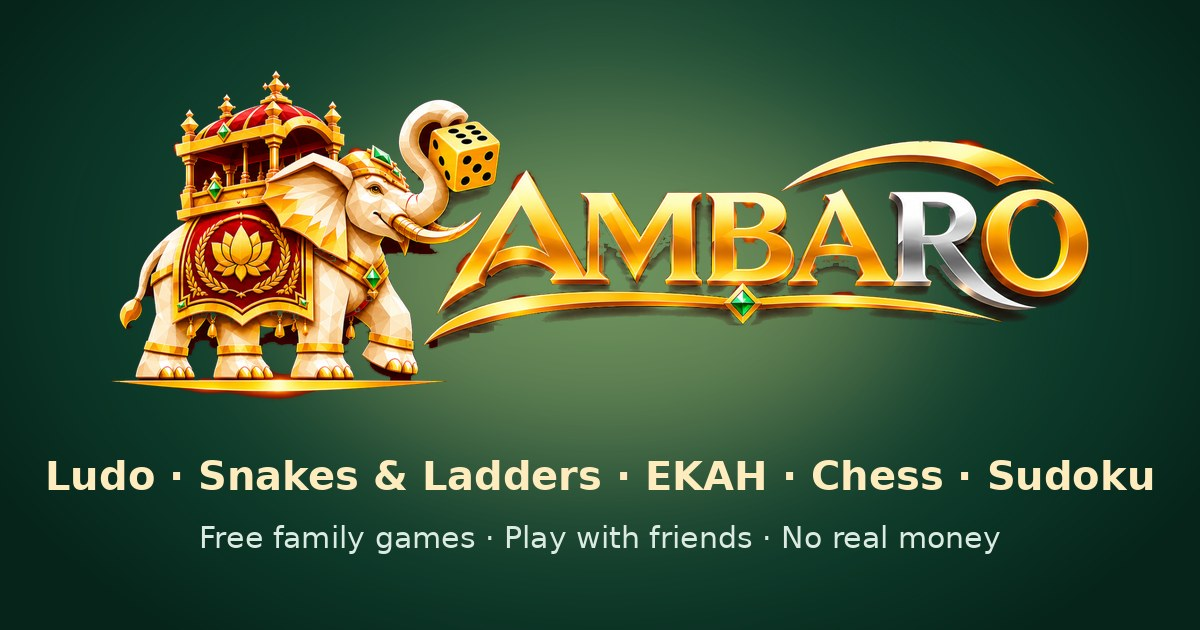
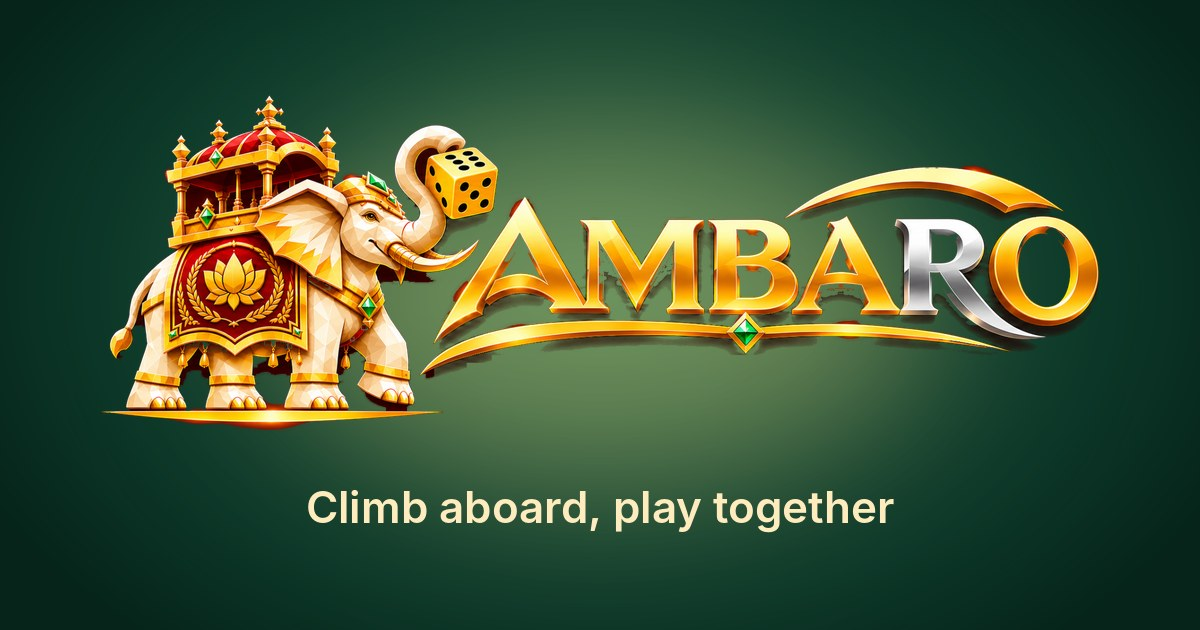
Link preview and page title: plain Ambaro with "Climb aboard, play together"
No game names or other lines on the WhatsApp card; page title, descriptions and the home-screen manifest
use the same words.

Claude-Session: https://claude.ai/code/session_015vFbHLgKJ1NB6KZV8yUJTQ

Changed region(s): [[0.0925, 0.1206, 0.925, 0.6937], [0.0308, 0.7238, 0.9867, 0.8746]]

diff --git a/web/index.html b/web/index.html
@@ -6,17 +6,17 @@
     <script src="/app-mode.js"></script>
     <script src="/rc-coach.js" defer></script>
     <meta name="theme-color" content="#0B3B2D" />
-    <meta name="description" content="Ambaro: free family games — Ludo, Snakes &amp; Ladders, EKAH, Chess, Sudoku and more. Play with friends. No real money." />
+    <meta name="description" content="Ambaro. Climb aboard, play together." />
     <meta property="og:type" content="website">
     <meta property="og:site_name" content="Ambaro">
-    <meta property="og:title" content="Ambaro — free family games">
-    <meta property="og:description" content="Play Ludo, Snakes & Ladders, EKAH, Chess and Sudoku with family and friends. Free, no real money.">
+    <meta property="og:title" content="Ambaro">
+    <meta property="og:description" content="Climb aboard, play together.">
     <meta property="og:image" content="https://test.royalclubgames.com/brand/og-image.jpg">
     <meta property="og:image:width" content="1200">
     <meta property="og:image:height" content="630">
     <meta name="twitter:card" content="summary_large_image">
     <link rel="manifest" href="/manifest.webmanifest" />
-    <title>Ambaro — free family games</title>
+    <title>Ambaro</title>
     <link rel="icon" type="image/png" sizes="32x32" href="/brand/favicon-32.png" />
     <link rel="icon" type="image/png" sizes="64x64" href="/brand/favicon.png" />
     <link rel="apple-touch-icon" href="/brand/apple-touch-icon.png" />

diff --git a/web/public/ekah/index.html b/web/public/ekah/index.html
@@ -7,8 +7,8 @@
     <script>try{var t=localStorage.getItem("ekahTable");if(t==="kesari"||t==="emerald")document.documentElement.dataset.table=t}catch(e){}</script>
 <meta property="og:type" content="website">
 <meta property="og:site_name" content="Ambaro">
-<meta property="og:title" content="Play EKAH on Ambaro">
-<meta property="og:description" content="Join my EKAH game: the Indian card game of Agni, Jal, Prithvi and Vayu. Free, no real money.">
+<meta property="og:title" content="Ambaro">
+<meta property="og:description" content="Climb aboard, play together.">
 <meta property="og:image" content="https://test.royalclubgames.com/brand/og-image.jpg">
 <meta property="og:image:width" content="1200">
 <meta property="og:image:height" content="630">

diff --git a/web/public/sudoku/index.html b/web/public/sudoku/index.html
@@ -6,8 +6,8 @@
     <script src="/app-mode.js"></script>
 <meta property="og:type" content="website">
 <meta property="og:site_name" content="Ambaro">
-<meta property="og:title" content="Sudoku on Ambaro">
-<meta property="og:description" content="Race me at Sudoku on Ambaro. A new daily puzzle every day.">
+<meta property="og:title" content="Ambaro">
+<meta property="og:description" content="Climb aboard, play together.">
 <meta property="og:image" content="https://test.royalclubgames.com/brand/og-image.jpg">
 <meta property="og:image:width" content="1200">
 <meta property="og:image:height" content="630">

diff --git a/web/public/chess/index.html b/web/public/chess/index.html
@@ -6,8 +6,8 @@
     <script src="/app-mode.js"></script>
 <meta property="og:type" content="website">
 <meta property="og:site_name" content="Ambaro">
-<meta property="og:title" content="Play Chess on Ambaro">
-<meta property="og:description" content="Join my chess game on Ambaro. Free, no real money.">
+<meta property="og:title" content="Ambaro">
+<meta property="og:description" content="Climb aboard, play together.">
 <meta property="og:image" content="https://test.royalclubgames.com/brand/og-image.jpg">
 <meta property="og:image:width" content="1200">
 <meta property="og:image:height" content="630">

diff --git a/web/public/words/index.html b/web/public/words/index.html
@@ -6,8 +6,8 @@
 <script src="/app-mode.js"></script>
 <meta property="og:type" content="website">
 <meta property="og:site_name" content="Ambaro">
-<meta property="og:title" content="Word Puzzle on Ambaro">
-<meta property="og:description" content="Guess the word on Ambaro. A new daily word every day.">
+<meta property="og:title" content="Ambaro">
+<meta property="og:description" content="Climb aboard, play together.">
 <meta property="og:image" content="https://test.royalclubgames.com/brand/og-image.jpg">
 <meta property="og:image:width" content="1200">
 <meta property="og:image:height" content="630">
